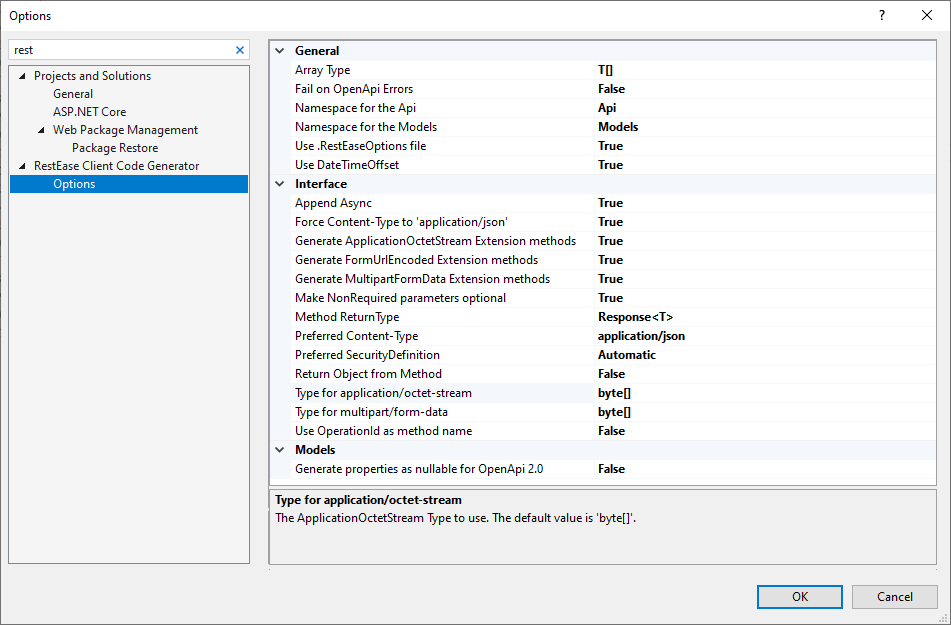
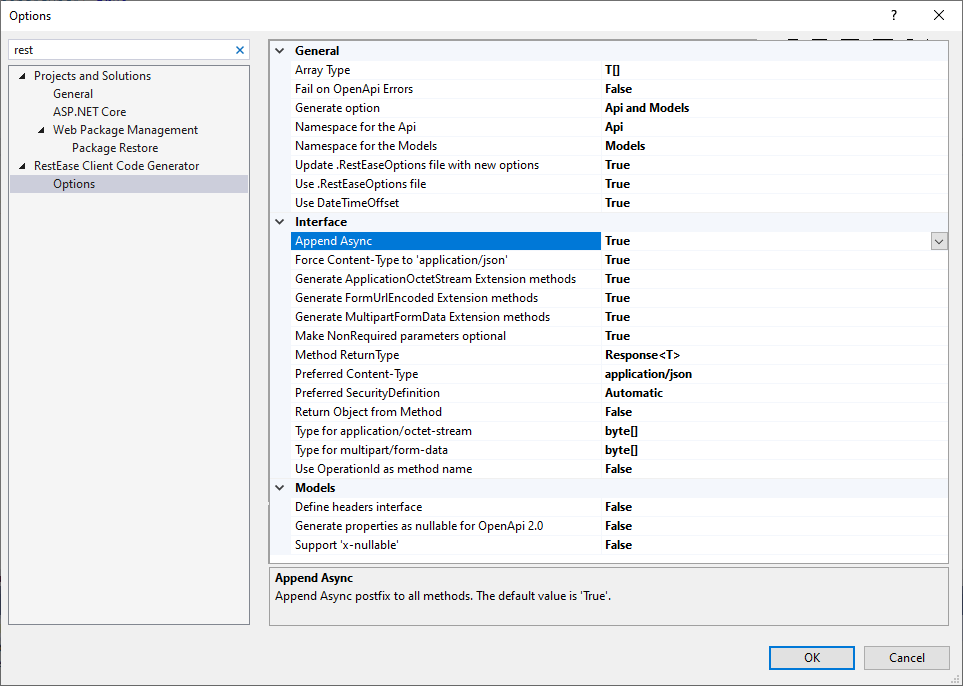
Add option to update UserSetting file with new options (with default value) (#18)

Changed region(s): [[0.0, 0.0304, 1.0, 1.0], [0.9453, 0.3344, 1.0, 0.3648], [0.0, 0.0, 0.061, 0.0304]]

diff --git a/src/RestEaseClientGenerator.VSIX/CustomTool/RestEaseCodeGenerator.cs b/src/RestEaseClientGenerator.VSIX/CustomTool/RestEaseCodeGenerator.cs
@@ -11,7 +11,6 @@ using RestEaseClientGenerator.Settings;
 using RestEaseClientGenerator.VSIX.Extensions;
 using RestEaseClientGenerator.VSIX.Options;
 using RestEaseClientGenerator.VSIX.Options.RestEase;
-using JsonSerializer = System.Text.Json.JsonSerializer;
 
 namespace RestEaseClientGenerator.VSIX.CustomTool
 {
@@ -81,6 +80,16 @@ namespace RestEaseClientGenerator.VSIX.CustomTool
                         {
                             Trace.WriteLine($"Unable to read custom settings file '{optionsPath}'.");
                         }
+
+                        try
+                        {
+                            string json = _optionsFactory.Serialize(options);
+                            File.WriteAllText(optionsPath, json);
+                        }
+                        catch
+                        {
+                            Trace.WriteLine($"Unable to update custom settings file '{optionsPath}'.");
+                        }
                     }
                 }
 
@@ -90,34 +99,11 @@ namespace RestEaseClientGenerator.VSIX.CustomTool
                 settings.Namespace = wszDefaultNamespace;
                 settings.ApiName = apiName;
 
-                //var settings = new GeneratorSettings
-                //{
-                //    SingleFile = true,
-                //    Namespace = wszDefaultNamespace,
-                //    ApiName = apiName,
-                //    ArrayType = options.ArrayType,
-                //    UseDateTimeOffset = options.UseDateTimeOffset,
-                //    MethodReturnType = options.MethodReturnType,
-                //    AppendAsync = options.AppendAsync,
-                //    GenerateFormUrlEncodedExtensionMethods = options.GenerateFormUrlEncodedExtensionMethods,
-                //    GenerateApplicationOctetStreamExtensionMethods = options.GenerateApplicationOctetStreamExtensionMethods,
-                //    GenerateMultipartFormDataExtensionMethods = options.GenerateMultipartFormDataExtensionMethods,
-                //    MultipartFormDataFileType = options.MultipartFormDataFileType,
-                //    ApplicationOctetStreamType = options.ApplicationOctetStreamType,
-                //    ApiNamespace = options.ApiNamespace,
-                //    ModelsNamespace = options.ModelsNamespace,
-                //    ReturnObjectFromMethodWhenResponseIsDefinedButNoModelIsSpecified = options.ReturnObjectFromMethodWhenResponseIsDefinedButNoModelIsSpecified,
-                //    PreferredContentType = options.PreferredContentType,
-                //    ForceContentTypeToApplicationJson = options.ForceContentTypeToApplicationJson,
-                //    UseOperationIdAsMethodName = options.UseOperationIdAsMethodName,
-                //    PreferredSecurityDefinitionType = options.PreferredSecurityDefinitionType,
-                //    GeneratePrimitivePropertiesAsNullableForOpenApi20 = options.GeneratePrimitivePropertiesAsNullableForOpenApi20
-                //};
                 var result = _generator.FromStream(File.OpenRead(wszInputFilePath), settings, out var diagnostic);
 
                 if (options.FailOnOpenApiErrors && diagnostic.Errors.Any())
                 {
-                    var errorMessages = string.Join(" | ", diagnostic.Errors.Select(e => JsonSerializer.Serialize(e)));
+                    var errorMessages = string.Join(" | ", diagnostic.Errors.Select(e => JsonConvert.SerializeObject(e)));
                     Trace.WriteLine($"OpenApi Errors: {errorMessages}");
 
                     pcbOutput = 0;

diff --git a/src/RestEaseClientGenerator.VSIX/AutoMapperUtils.cs b/src/RestEaseClientGenerator.VSIX/AutoMapperUtils.cs
@@ -12,10 +12,24 @@ namespace RestEaseClientGenerator.VSIX
 
         private AutoMapperUtils()
         {
-            var config = new MapperConfiguration(cfg => {
+            // https://github.com/AutoMapper/AutoMapper/issues/3304 ???
+            var config = new MapperConfiguration(cfg =>
+            {
                 cfg.CreateMap<RestEaseUserOptions, RestEaseOptionsPage>();
+                //.ForAllMembers(opt => opt.Condition((src, dest, srcVal) =>
+                //{
+                //    return srcVal != null;
+                //}));
+
                 cfg.CreateMap<IRestEaseOptions, GeneratorSettings>();
+                //.ForAllMembers(opt => opt.Condition((src, dest, srcVal) => srcVal != null));
+
+                cfg.CreateMap<int?, int>().ConvertUsing((sourceValue, destinationValue) => sourceValue ?? destinationValue);
+                cfg.CreateMap<bool?, bool>().ConvertUsing((sourceValue, destinationValue) => sourceValue ?? destinationValue);
+                cfg.CreateMap<string, string>().ConvertUsing((sourceValue, destinationValue) => !string.IsNullOrEmpty(sourceValue) ? sourceValue : destinationValue);
             });
+
+            config.AssertConfigurationIsValid();
 
             Mapper = new Mapper(config);
         }

diff --git a/src/RestEaseClientGenerator.VSIX/Options/OptionsFactory.cs b/src/RestEaseClientGenerator.VSIX/Options/OptionsFactory.cs
@@ -13,11 +13,18 @@ namespace RestEaseClientGenerator.VSIX.Options
 {
     public class OptionsFactory : IOptionsFactory
     {
+        private readonly JsonSerializerSettings _deserializeSettings = new JsonSerializerSettings
+        {
+            NullValueHandling = NullValueHandling.Include,
+            MissingMemberHandling = MissingMemberHandling.Ignore
+        };
+
         public IRestEaseOptions Create<TDialogPage>() => VsPackage.Instance.GetDialogPage(typeof(TDialogPage)) as IRestEaseOptions;
 
         public RestEaseUserOptions Deserialize(string value)
         {
-            return JsonConvert.DeserializeObject<RestEaseUserOptions>(value);
+            var x =  JsonConvert.DeserializeObject<RestEaseUserOptions>(value, _deserializeSettings);
+            return x;
         }
 
         public string Serialize(IRestEaseOptions options)

diff --git a/src/RestEaseClientGenerator.VSIX/Options/RestEase/RestEaseOptionsPage.cs b/src/RestEaseClientGenerator.VSIX/Options/RestEase/RestEaseOptionsPage.cs
@@ -46,6 +46,11 @@ namespace RestEaseClientGenerator.VSIX.Options.RestEase
         [DisplayName("Use .RestEaseOptions file")]
         [Description("Read and write .RestEaseOptions file which can be used to overwrite some Visual Studio global RestEase options. The default value is 'True'.")]
         public bool UseUserOptions { get; set; } = true;
+
+        [Category(General)]
+        [DisplayName("Update .RestEaseOptions file with new options")]
+        [Description("Update the .RestEaseOptions file when new options are added to the Visual Studio global RestEase options. The default value is 'True'.")]
+        public bool UpdateUserOptionsWithNewOptions { get; set; } = true;
         #endregion
 
         #region Interface

diff --git a/src/RestEaseClientGenerator.VSIX/Options/RestEase/RestEaseUserOptions.cs b/src/RestEaseClientGenerator.VSIX/Options/RestEase/RestEaseUserOptions.cs
@@ -56,5 +56,7 @@ namespace RestEaseClientGenerator.VSIX.Options.RestEase
 
         [JsonConverter(typeof(DescriptionEnumConverter))]
         public GenerationType? GenerationType { get; set; }
+
+        public bool? UpdateUserOptionsWithNewOptions { get; set; }
     }
 }

diff --git a/src/RestEaseClientGenerator.VSIX/Options/RestEase/IRestEaseOptions.cs b/src/RestEaseClientGenerator.VSIX/Options/RestEase/IRestEaseOptions.cs
@@ -47,5 +47,7 @@ namespace RestEaseClientGenerator.VSIX.Options.RestEase
         bool SupportExtensionXNullable { get; set; }
 
         bool DefineAllMethodHeadersOnInterface { get; set; }
+
+        bool UpdateUserOptionsWithNewOptions { get; set; }
     }
 }

diff --git a/src/RestEaseClientGenerator/Types/GenerationType.cs b/src/RestEaseClientGenerator/Types/GenerationType.cs
@@ -6,7 +6,7 @@ namespace RestEaseClientGenerator.Types
 {
     [TypeConverter(typeof(EnumDescriptionConverter))]
     [Flags]
-    public enum GenerationType : int
+    public enum GenerationType
     {
         [Description("Api")]
         Api = 1,
